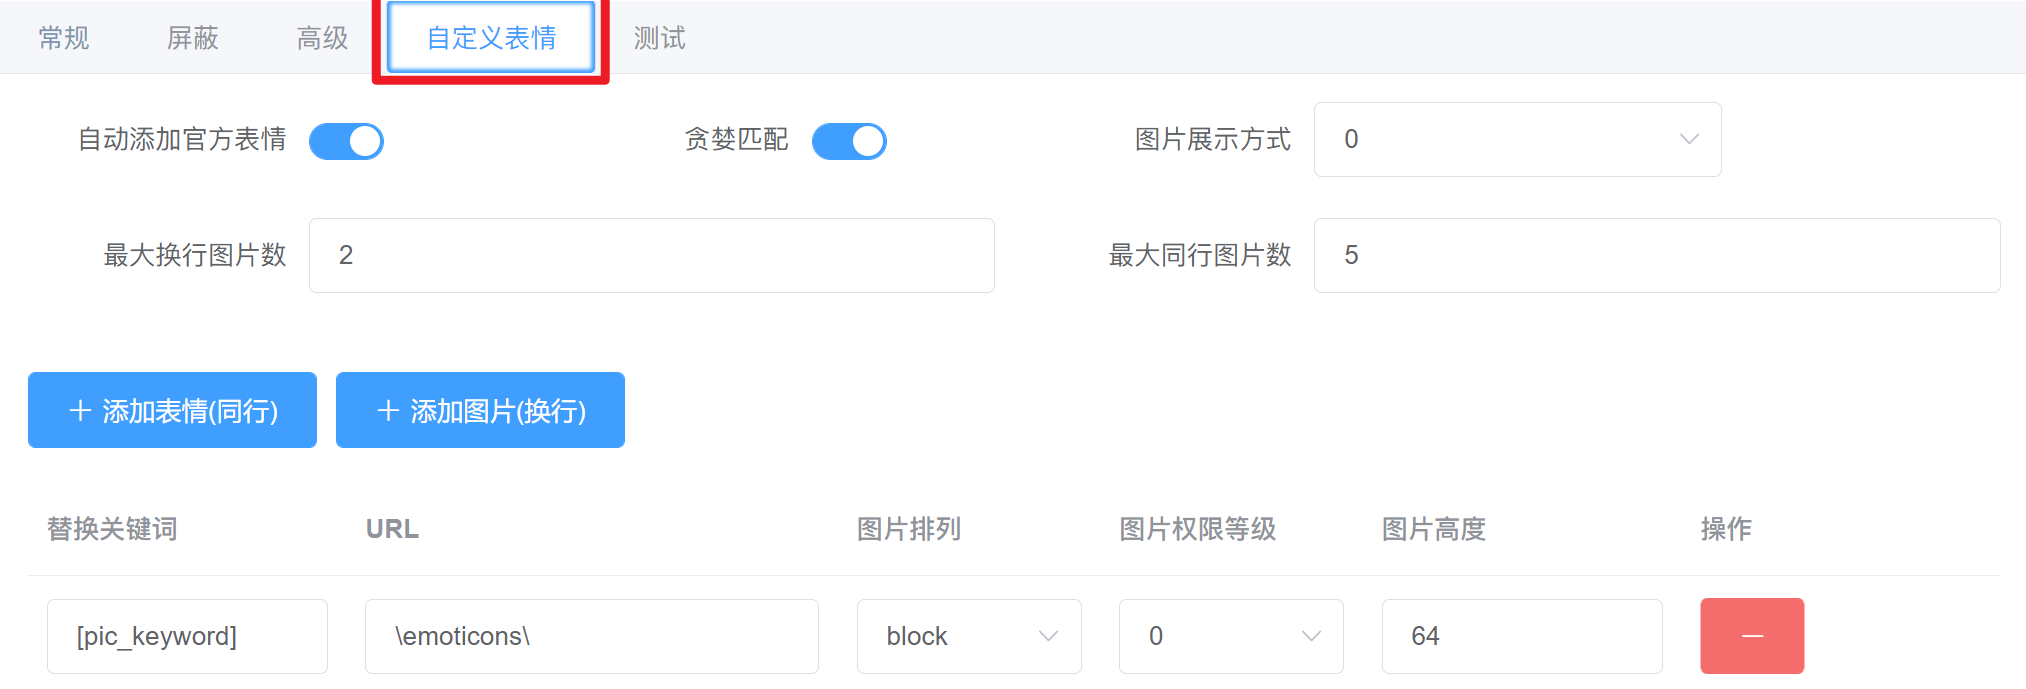
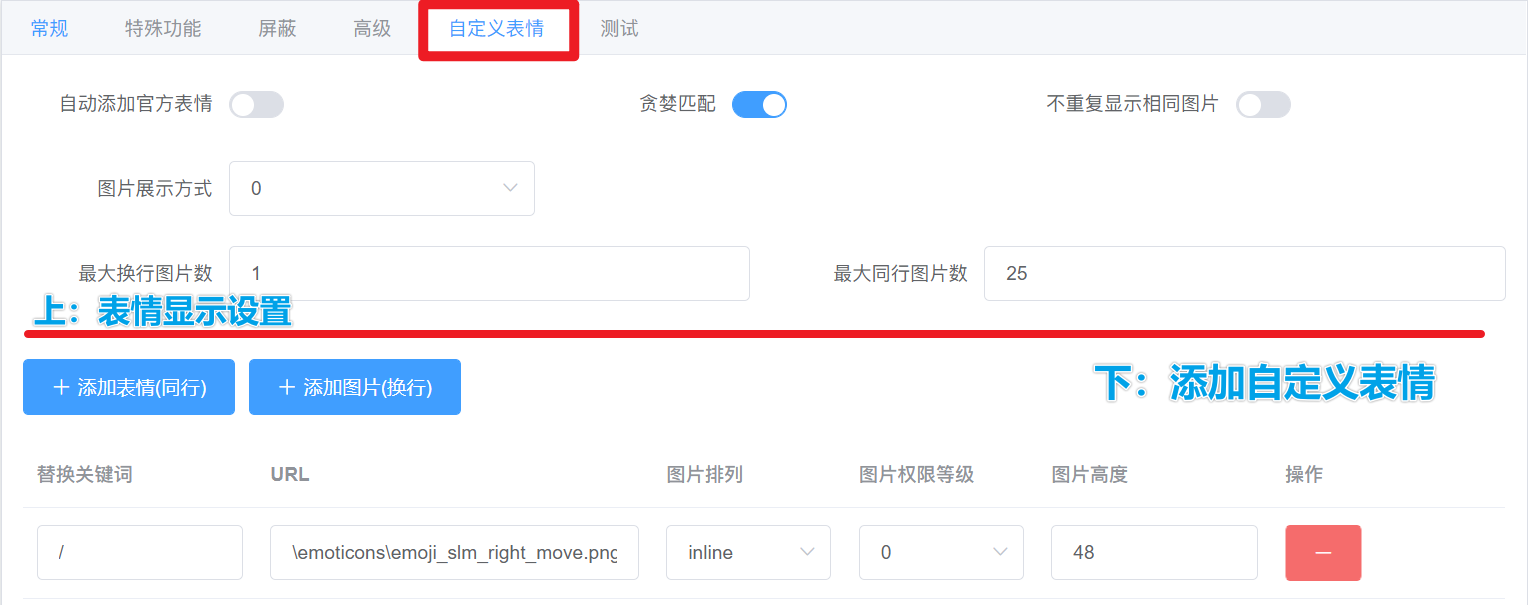
readme: 更新图片至调整后界面，补充用户自定义弹幕颜色功能的说明

diff --git a/README.md b/README.md
@@ -41,13 +41,17 @@
 ### 3.弹幕数量设置
 ![弹幕数量设置](./screenshots/danmuNumSetting.png)
 1. 最大弹幕数量——浏览器源显示的最大弹幕数量
-
+2. 预留淡出弹幕数——预留给弹幕消失动画，避免在动画过程中弹幕被删除的预留用弹幕数量
+3. 淡出前停留时长(秒)——默认0为持续停留，弹幕将会在设置秒数后触发淡出
 ## **首页-特殊功能**——参数说明
 
-### 1.弹幕消失设定
-![弹幕消失设定](./screenshots/danmuFadeOutSetting.png) 
-1. 预留淡出弹幕数——预留给弹幕消失动画，避免在动画过程中弹幕被删除的预留用弹幕数量
-2. 弹幕停留时长(秒)——默认0为持续停留，弹幕将会在设置秒数后消失
+### 1.用户自定义弹幕颜色
+
+![用户自定义弹幕颜色](./screenshots/danmuColorCustomizationByChat.png) 
+
+观众可以发送 #Hex 色号指定自己的弹幕颜色（用于歌回应援色等）
+
+![用户自定义弹幕颜色](./screenshots/danmuColorHexSetting.png) 
 
 ### 2.屏蔽/单独显示翻译弹幕
 ![单独显示翻译弹幕](./screenshots/translatedDanmakuSetting.png) 
@@ -58,18 +62,18 @@
 ### 3.随机弹幕位置
 ![随机弹幕位置](./screenshots/randomDanmakuPositionSetting.png) 
 以下的距离单位均为 `px`, 时间单位均为 `sec(秒)`
-1. 随机X/Y轴位置（X/Y最小值、X/Y最大值）——弹幕出现的X/Y轴位置将会在（最小值，最大值）间浮动
-	- 随机X轴时沿Y轴竖直移动
-	- 随机Y轴时沿X轴水平移动
-	- 同时随机X、Y轴将会启用浮动淡入的方式（不水平、竖直移动）
-	- 最小值最大值可为正/负数（控制方向）
+1. 随机X轴位置(X最小值、X最大值)——弹幕出现的X轴位置将会在(最小值，最大值)间浮动
+	- 最小值最大值可为正/负数(控制方向：X向左为负，向右为正)
+2. 随机Y轴位置(Y最小值、Y最大值)——弹幕出现的Y轴位置将会在(最小值，最大值)间浮动
+	- 最小值最大值可为正/负数(控制方向：Y向下为正，向上为负)
 
 ![随机弹幕位置](./screenshots/randomDanmakuPositionFigure.png) 
 
-2. 移动时长——弹幕移动耗时（1000px耗时10秒——每秒100px）
-3. 初始X/Y偏移——弹幕出现时的基础偏移位置（默认在左下角（左下角为(0,0)）
-4. 最小/大移动距离——弹幕移动的距离将在（最小，最大）间浮动
-5. 移动距离阈值——当最小最大移动距离横跨正负值的时候，为避免random随机到的距离过小，设置移动距离阈值为200，则最小移动距离为±200，移动距离不落在(-200,200)这一区间
+3. 停留时长(漂浮时长)——弹幕移动耗时(1000px耗时10秒——每秒100px)
+4. 初始X/Y偏移——弹幕出现时的基础偏移位置(默认在左下角(左下角为(0,0))
+5. 最小、最大X移动距离——弹幕移动的距离将在X轴水平方向(最小X移动距离，最大X移动距离)之内随机，让有的弹幕飘得远，有的飘得近
+6. 最小、最大Y移动距离——弹幕移动的距离将在Y轴竖直方向(最小Y移动距离，最大Y移动距离)之内随机，让有的弹幕飘得远，有的飘得近
+7. 移动距离阈值——如果原本的范围是 (-1000, 1000)，设置移动距离阈值为200时，范围变为(-1000, -200)∪(200, 1000)。目的是当最小最大移动距离横跨正负值的时候，避免随机到的距离过小导致弹幕不移动。
     
 
 适用于有实时翻译man在直播间的V，可以开2个【浏览器源】分离以翻译弹幕
@@ -79,10 +83,12 @@
 ### 1.自定义表情相关功能
 
 ![自定义表情相关功能图](./screenshots/emoticonSetting.png) 
+
+![自定义表情相关功能图](./screenshots/emoticonSetting1.png) 
 #### `自动添加官方表情` 
 开启后：包含B站直播间通用表情，主播设置的B站表情（无需自己添加设定）——但不能自定义（图片高度等）
 
-#### `贪婪匹配（表情包匹配逻辑）`
+#### `贪婪匹配（表情包匹配逻辑）`——可以跳过
 1. 贪婪匹配（匹配最长的字串）
 	从左到右阅读：关键词，在关键词基础上的匹配逻辑，匹配结果
 ![替换表情包触发逻辑](./screenshots/greedyMatch.png) 
@@ -91,13 +97,16 @@
 	从左到右阅读：关键词，在关键词基础上的匹配逻辑，匹配结果
 ![替换表情包触发逻辑](./screenshots/nonGreedyMatch.png) 
 
+#### `不重复显示相同图片`
+
+一条弹幕中，一个表情包/图片指出现一次
 #### `图片展示方式` 
 ![图片插入方式](./screenshots/imageShowTypeSetting.png) 
-1. 替换表情包（无需符号）
+1. 替换表情包（无需符号）—— `0`
 
 	逐个替换【关键词】为图片插入在弹幕消息文字**中**(在不超过最大图片数，满足调用权限（舰长以上）的情况下）
 
-2. 在文字消息后添加
+2. 在文字消息后添加—— `1`
 	
 	将所有【关键词】转为图片添加在弹幕消息**后面**(在不超过最大图片数，满足调用权限（舰长以上）的情况下）
 
@@ -123,12 +132,12 @@
 
 #### `添加表情（同行）| 添加图片（换行） 按钮`
 两者本质一致：2个按钮是为了快速添加2种表情图片
-- 同行表情：默认
+- 同行表情：
 	- 图片排列——inline
-	- 图片高度——16（建议和字体大小设置相近）
-- 换行图片：默认为 64
+	- 图片高度——建议和字体大小设置相近
+- 换行图片：
 	- 图片排列——block
-	- 图片高度——64
+	- 图片高度——建议设置为字体大小的3~4倍
 #### `替换关键词` 
 即弹幕关键词，弹幕中出现该关键词会触发表情包
 
@@ -150,8 +159,7 @@
 - 1 = 【**总督**】以上包括总督能用
 ![图片权限等级](./screenshots/imageLevelSetting.png)
 #### `图片高度`
-图片的高度，**小表情建议设置为 16（和文字大小一致），大表情建议设置为 80 或 120**
-
+图片的高度：inline(同行) 建议和字体大小设置相近，block(换行) 建议设置为字体大小的3~4倍
 
 ## **首页-样式生成器**——参数说明
 ### 1.粉丝牌子显示(适配样式生成器)
